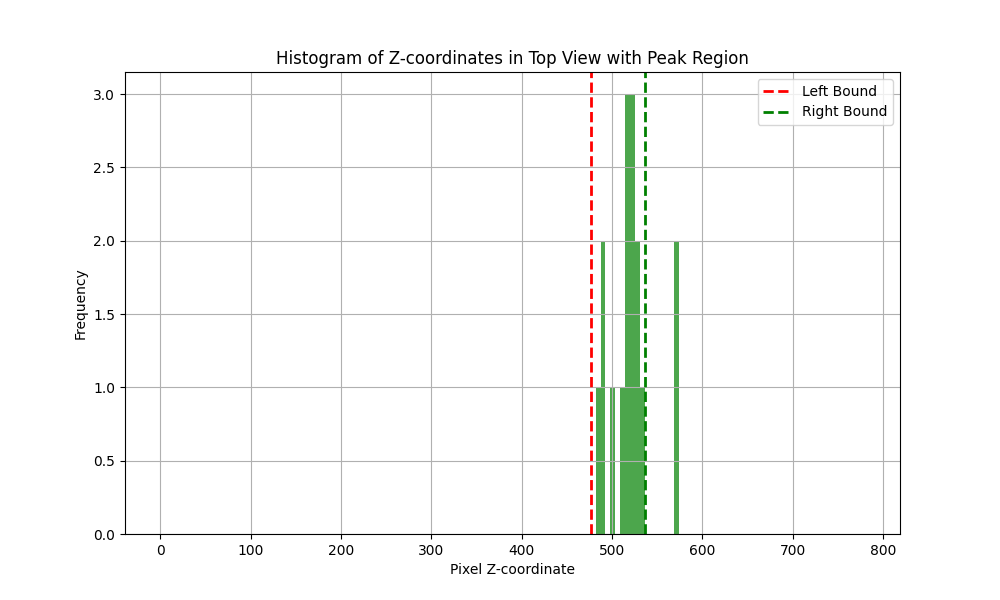
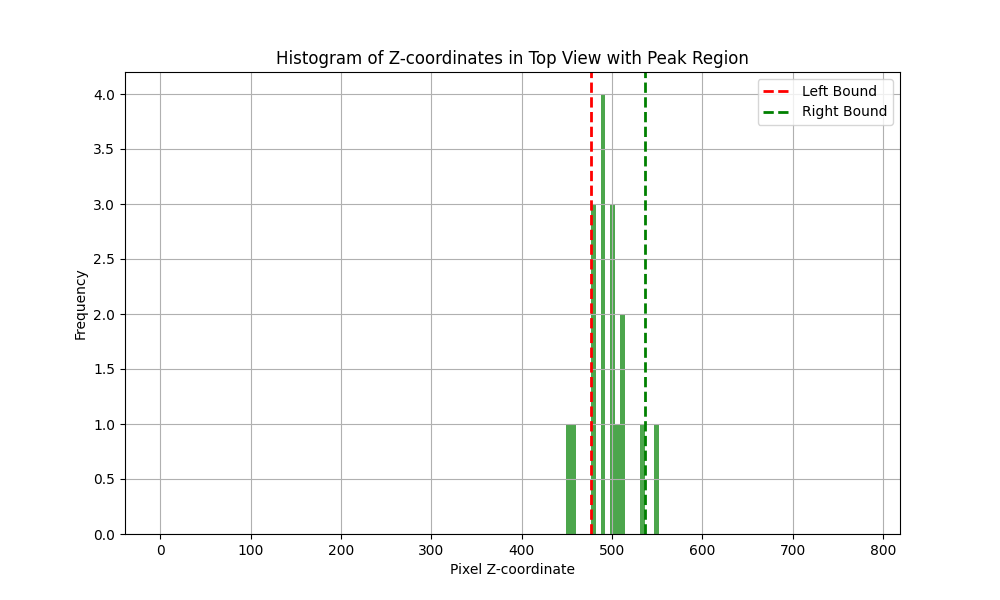
side of cabinet detected for sg

diff --git a/src/charmie_storing_groceries/charmie_storing_groceries/storing_groceries_v0.py b/src/charmie_storing_groceries/charmie_storing_groceries/storing_groceries_v0.py
@@ -1811,11 +1811,6 @@ class StoringGroceriesMain():
         for index, counts in neighbor_counts_front.items():
             print(f"Peak at bin {bins_front[index]}: {counts}")
 
-
-
-
-
-
         """ ####
         720 pixeis -> 500 centimetros
         500 / 50 = 5 cm
@@ -2056,6 +2051,32 @@ class StoringGroceriesMain():
 
                 print('Filtered objects:', filtered_objects)
                 print('nr de objetos filtrados: ', len(filtered_objects))
+
+                min_object = min(filtered_objects, key=lambda x: x[1])
+                max_object = max(filtered_objects, key=lambda x: x[1])
+
+                print('x_min:', min_object[1])
+                print('x_max:', max_object[1])
+                dif = abs(max_object[1] - min_object[1])
+                print('dif', dif)
+                print(round(dif/2))
+                half = min_object[1] + dif/2
+
+                print('half:', half)
+
+                objects_left_side = []
+                objects_right_side = []
+                for obj in filtered_objects:
+                    if obj[1] < half:
+                        objects_left_side.append(obj)
+                    else:
+                        objects_right_side.append(obj)
+
+                print("Object with the minimum value in the 2nd argument:", min_object)
+                print("Object with the maximum value in the 2nd argument:", max_object)
+
+                print('Objects on the right side of the shelf:', objects_right_side)
+                print('Objects on the left side of the shelf:', objects_left_side)
 
                 while True:
                     pass
